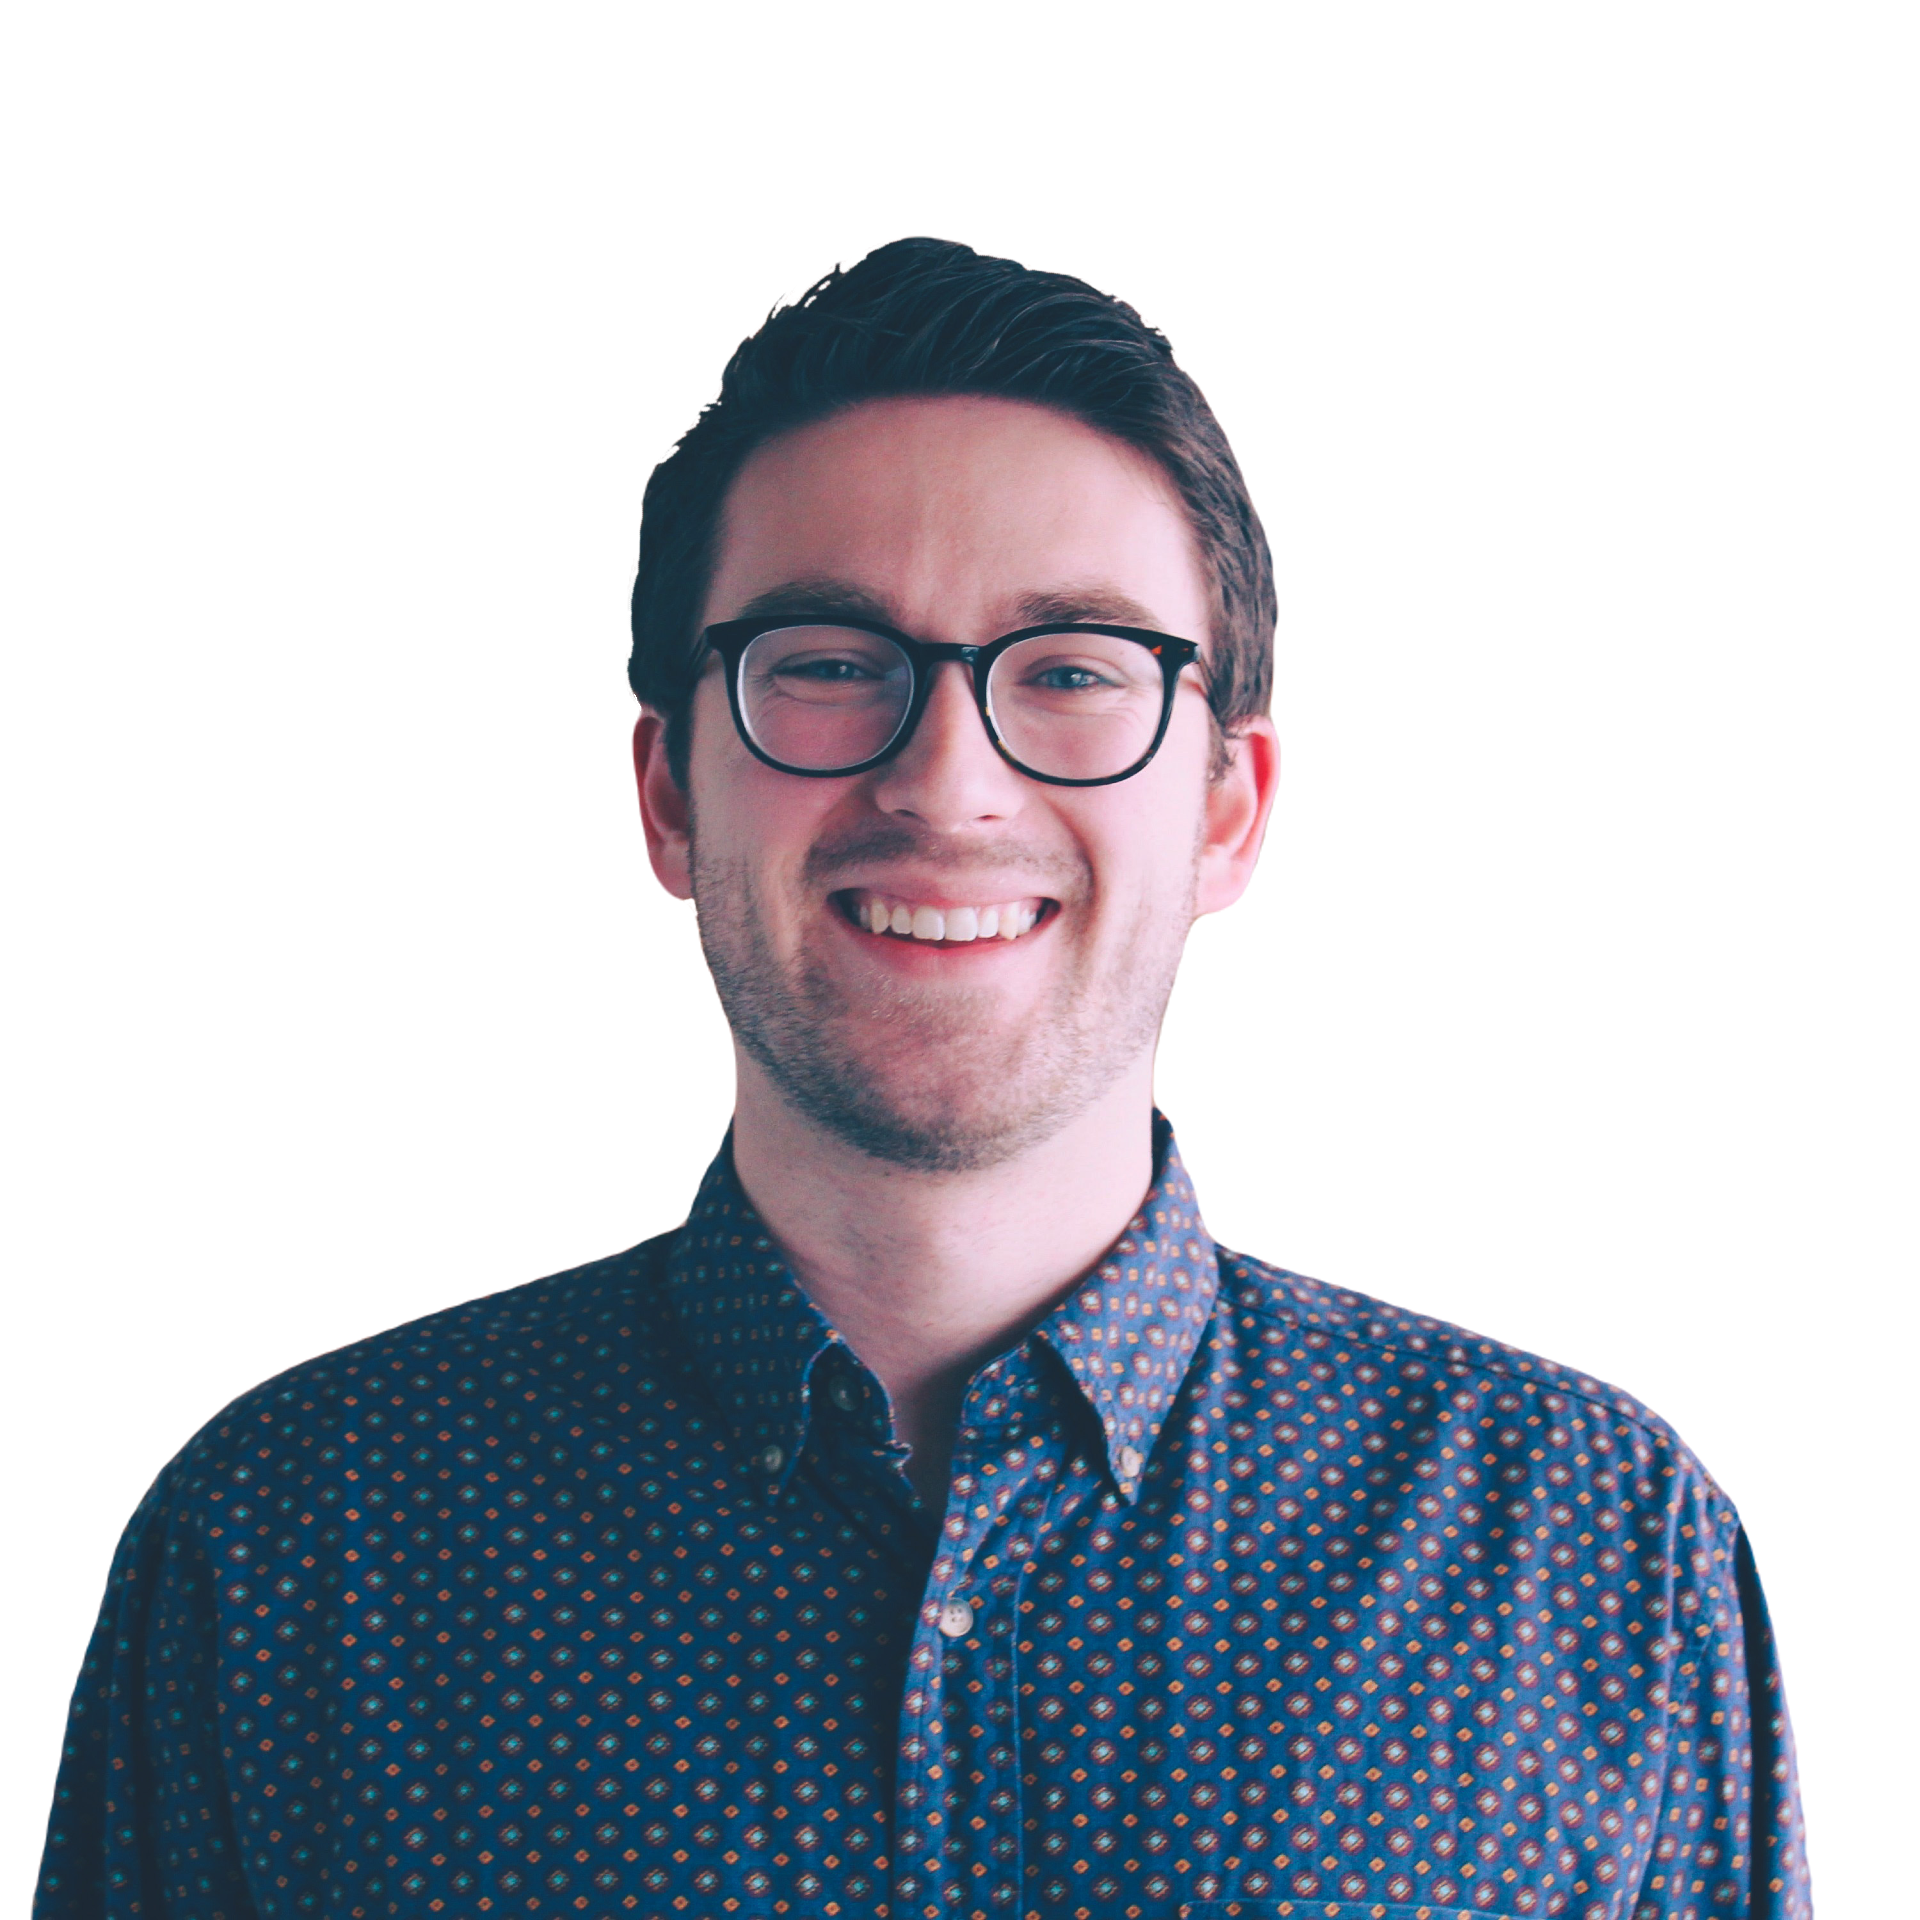
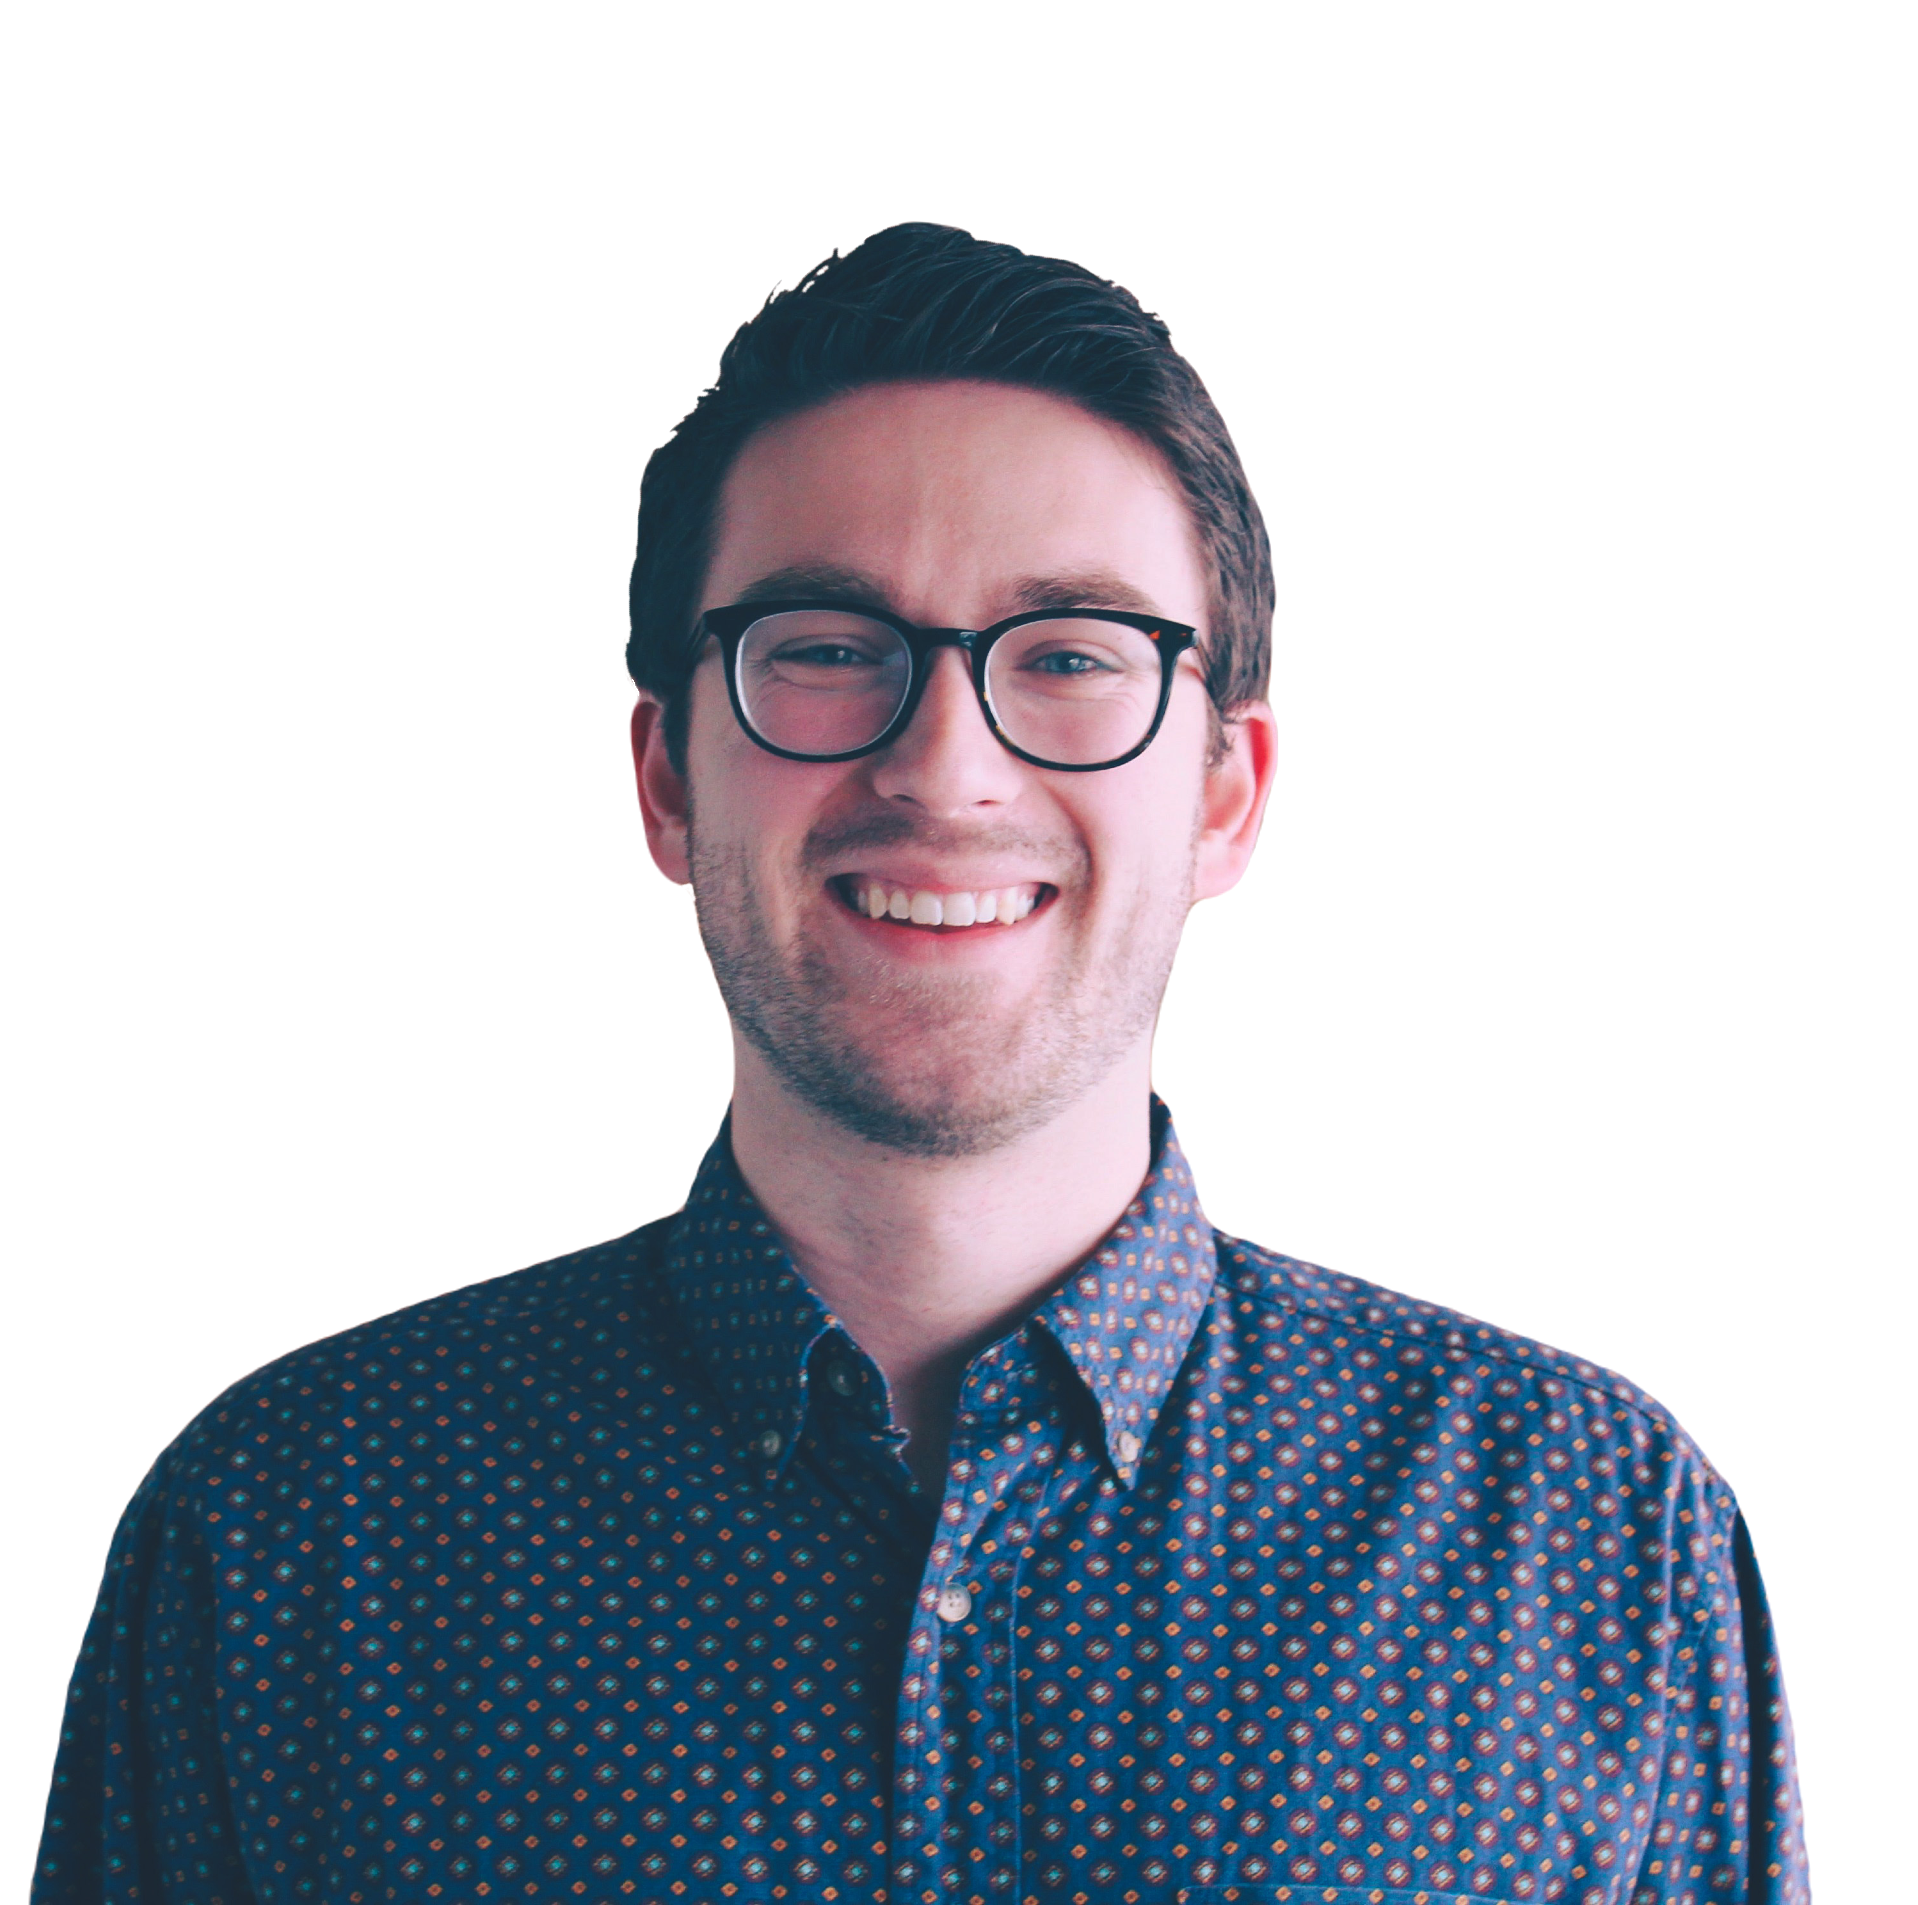
update svg and some spacing

diff --git a/src/pages/LandingPage/index.js b/src/pages/LandingPage/index.js
@@ -8,56 +8,50 @@ import "./landingPage.css";
 
 export const ProfileSVG = ({ theme }) => {
   return (
-    <svg
-      style={{ width: "100%", aspectRatio: 1.1 }}
-      viewBox="0 0 472 514"
-      fill="none"
-      xmlns="http://www.w3.org/2000/svg"
-    >
-      <path
-        d="M219.047 140.338C298.037 74.8665 408.06 29.2314 420.192 110.198C432.324 191.165 317.086 475.876 240.149 487.404C163.211 498.933 38.5864 318.006 26.4544 237.039C14.3224 156.072 140.057 205.809 219.047 140.338Z"
-        fill={theme.palette.primary.main}
-      />
-      <mask
-        id="mask0_3:74"
-        style={{ maskType: "alpha" }}
-        maskUnits="userSpaceOnUse"
-        x="24"
-        y="25"
-        width="398"
-        height="463"
+    <div style={{ display: "flex", justifyContent: "flex-end" }}>
+      <svg
+        style={{ maxWidth: "min(50vw, 18em)" }}
+        viewBox="0 0 2750 3000"
+        fill="none"
+        xmlns="http://www.w3.org/2000/svg"
       >
         <path
-          d="M134.431 60.1053C213.421 -5.36592 408.06 29.2314 420.192 110.198C432.324 191.165 317.086 475.876 240.149 487.404C163.211 498.933 38.5864 318.006 26.4544 237.039C14.3224 156.072 55.4412 125.577 134.431 60.1053Z"
-          fill="white"
+          d="M934.166 355.205C1315.68 38.9823 1847.09 -181.433 1905.68 209.633C1964.28 600.699 1407.69 1975.84 1036.09 2031.52C664.484 2087.2 62.5557 1213.33 3.95863 822.267C-54.6384 431.201 552.65 671.427 934.166 355.205Z"
+          fill={theme.palette.primary.main}
+          style={{ transform: "scale(1.25)" }}
         />
-      </mask>
-      <g mask="url(#mask0_3:74)">
-        <rect
-          x="-9.06876"
-          y="30.6053"
-          width="474"
-          height="474"
-          fill="url(#pattern0)"
-        />
-      </g>
-      <defs>
-        <pattern
-          id="pattern0"
-          patternContentUnits="objectBoundingBox"
-          width="1"
-          height="1"
-        >
-          <use href="#image0_3:74" transform="scale(0.000520833)" />
-        </pattern>
         <image
-          id="image0_3:74"
-          width="1920"
-          height="1920"
+          alt="text"
+          id="image0:74"
+          style={{ clipPath: "url(#myClip)", transform: "scale(1.25)" }}
+          height="2035"
+          width="2035"
           href={profileImage}
         />
-      </defs>
-    </svg>
+        <defs>
+          <clipPath id="myClip" clipPath="objectBoundingBox">
+            <path
+              d="M0 5.205C315.68 8.9823 1847.09 -1081.433 1905.68 109.633C1964.28 600.699 1407.69 1975.84 1036.09 2031.52C664.484 2087.2 62.5557 1213.33 3.95863 822.267C-54.6384 431.201 552.65 671.427 934.166 55.205Z"
+              fill="white"
+            />
+          </clipPath>
+          <pattern
+            id="pattern0"
+            patternContentUnits="userSpaceOnUse"
+            width="100%"
+            height="100%"
+          >
+            <use href="#image0_3:74" />
+          </pattern>
+          <image
+            id="image0_3:74"
+            height="2035"
+            width="2035"
+            href={profileImage}
+          />
+        </defs>
+      </svg>
+    </div>
   );
 };
 

diff --git a/src/Components/GlobalNav/GlobalNav.js b/src/Components/GlobalNav/GlobalNav.js
@@ -114,12 +114,14 @@ export const GlobalNav = ({ changeTheme, toggleDarkMode }) => {
   return (
     <AppBar position="static" className="page-nav global-nav">
       <Toolbar className="global-nav__container" sx={{ bgcolor: "eraserHead" }}>
-        <MobileNav
-          links={links}
-          activeLink={activeLink}
-          open={displayMenu}
-          toggleMenu={toggleMenu}
-        />
+        <Box sx={{ display: { xs: "flex", md: "none" } }}>
+          <MobileNav
+            links={links}
+            activeLink={activeLink}
+            open={displayMenu}
+            toggleMenu={toggleMenu}
+          />
+        </Box>
         <Link href="/" underline="none">
           <Typography
             variant="h3"

diff --git a/src/App.css b/src/App.css
@@ -51,6 +51,8 @@
 .page-container {
   width: min(95%, 1500px);
   margin-inline: auto;
+  margin-top: min(1em, 10vh);
+  padding-bottom: max(10em, 10vh);
 }
 
 .landing-page {
